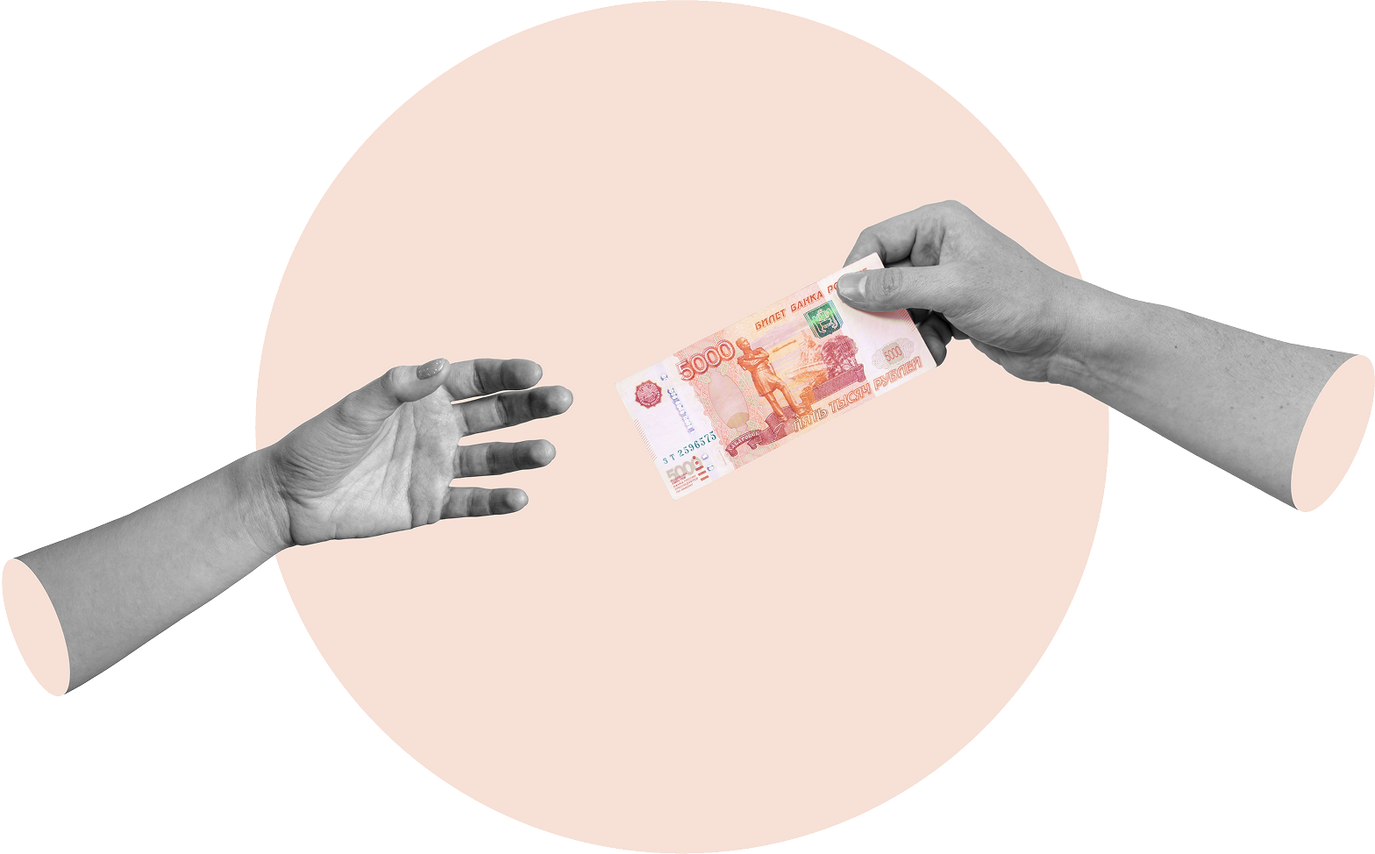
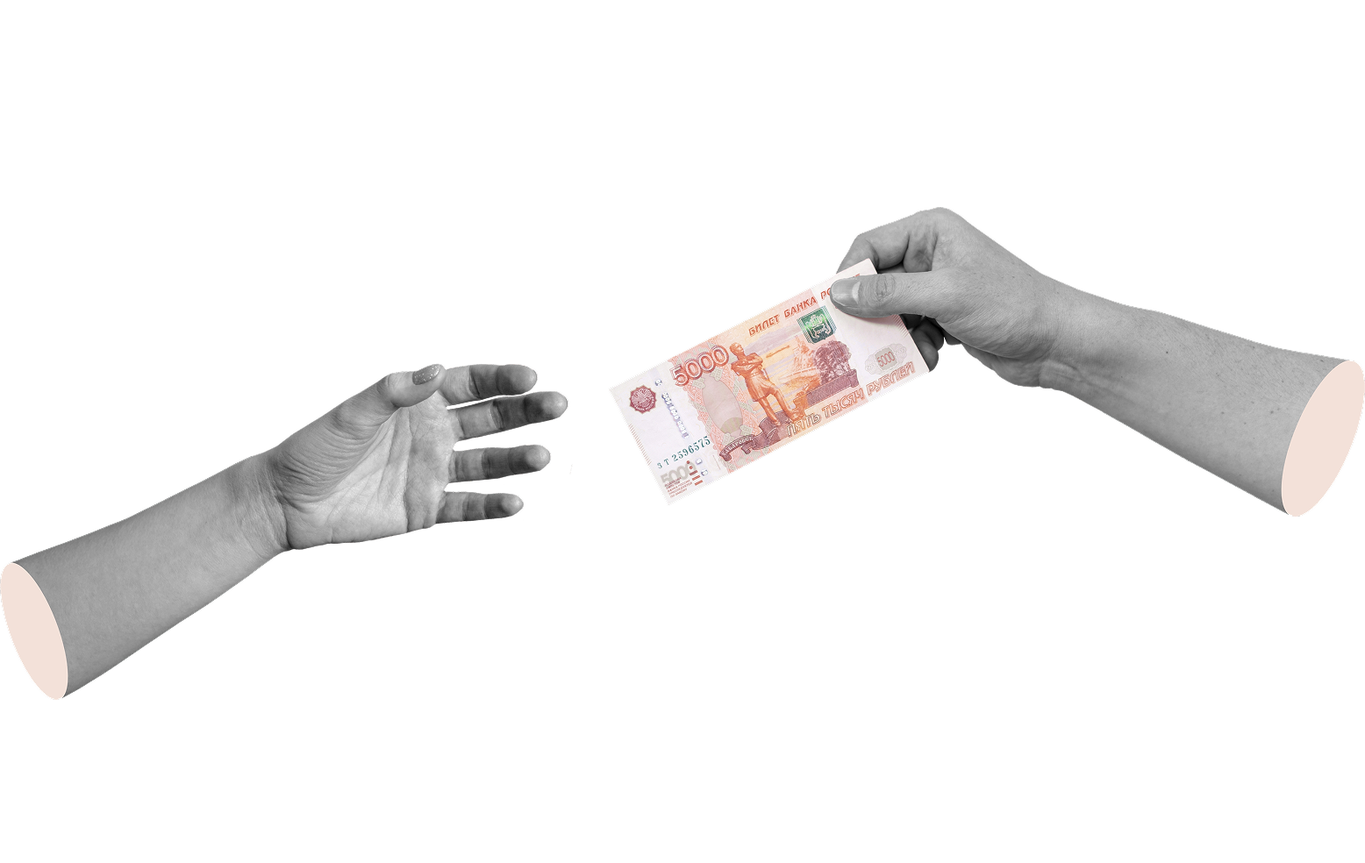
init

diff --git a/css/main.min.css b/css/main.min.css
@@ -1,1 +1,1 @@
-@font-face{font-family:Montserrat;font-style:normal;font-weight:400;src:local("Montserrat"),local("Montserrat"),url(../fonts/montserrat/Montserrat-Regular.woff2) format("woff2"),url(../fonts/montserrat/Montserrat-Regular.woff) format("woff"),url(../fonts/montserrat/Montserrat-Regular.ttf) format("truetype")}@font-face{font-family:Montserrat;font-style:normal;font-weight:500;src:local("Montserrat"),local("Montserrat"),url(../fonts/montserrat/Montserrat-Medium.woff2) format("woff2"),url(../fonts/montserrat/Montserrat-Medium.woff) format("woff"),url(../fonts/montserrat/Montserrat-Medium.ttf) format("truetype")}@font-face{font-family:Montserrat;font-style:normal;font-weight:600;src:local("Montserrat"),local("Montserrat"),url(../fonts/montserrat/Montserrat-SemiBold.woff2) format("woff2"),url(../fonts/montserrat/Montserrat-SemiBold.woff) format("woff"),url(../fonts/montserrat/Montserrat-SemiBold.ttf) format("truetype")}@font-face{font-family:Montserrat;font-style:normal;font-weight:700;src:local("Montserrat"),local("Montserrat"),url(../fonts/montserrat/Montserrat-Bold.woff2) format("woff2"),url(../fonts/montserrat/Montserrat-Bold.woff) format("woff"),url(../fonts/montserrat/Montserrat-Bold.ttf) format("truetype")}@font-face{font-family:Unbounded;font-style:normal;font-weight:700;src:local("Unbounded"),local("Unbounded"),url(../fonts/unbounded/Unbounded-Bold.woff2) format("woff2"),url(../fonts/unbounded/Unbounded-Bold.woff) format("woff"),url(../fonts/unbounded/Unbounded-Bold.ttf) format("truetype")}@font-face{font-family:Druk Wide Cry;font-style:normal;font-weight:700;src:local("Druk Wide Cry"),local("Druk Wide Cry"),url(../fonts/druk-wide-cyr/drukwidecyr-bold.woff2) format("woff2"),url(../fonts/druk-wide-cyr/drukwidecyr-bold.woff) format("woff"),url(../fonts/druk-wide-cyr/drukwidecyr-bold.ttf) format("truetype")}:root{--max-width-wrapper:1920px;--max-width-container:1200px;--container-pi:10px;--font-family-primary:"Montserrat",sans-serif;--font-family-secondary:"Unbounded",sans-serif;--font-family-third:"Druk Wide Cry",sans-serif;--main-bg:#f2f2f2;--base-white:#fff;--base-grey:#e8e8e8;--base-darkgrey:#e9e9e9;--accent-clr:#f94e04;--text-white:#fff;--text-black:#222;--text-bluedark:#181f53;--text-darkgray:#a4a4a4;--text-main:#f22a52}@media (prefers-reduced-motion:no-preference){:root{scroll-behavior:smooth}}*{border:0;margin:0;min-width:0;padding:0}*,:after,:before{box-sizing:border-box}:active,:focus,a:active,a:focus{outline:none}a,a:visited{text-decoration:none}p a,p a:visited{text-decoration:underline}@media (any-hover:hover){a:hover{text-decoration:none}}p{text-wrap:pretty}aside,footer,header,nav{display:block}body,html{font-size:100%;height:100%;width:100%;-ms-text-size-adjust:100%;-moz-text-size-adjust:100%;-webkit-text-size-adjust:100%}button,input,textarea{font-family:inherit}input::-ms-clear{display:none}button{cursor:pointer}button::-moz-focus-inner{border:0;padding:0}ul li{list-style:none}img{height:auto;max-width:100%;object-fit:cover;vertical-align:top}h1,h2,h3,h4,h5,h6{font-size:inherit;font-weight:inherit;text-wrap:balance}body{background-color:var(--main-bg);color:var(--text-black);font-family:var(--font-family-primary);font-size:1rem;font-weight:400}.wrapper,body.no-scroll{overflow:hidden}.wrapper{--_max-width:var(--max-width-wrapper,1920px);display:flex;flex-direction:column;margin:0 auto;max-width:var(--_max-width);min-height:100%;position:relative;width:100%}@media (width > 768px){.wrapper:after{background-image:url(../images/decor_01.svg),url(../images/decor_02.svg),url(../images/decor_03.svg);background-position:0,72%,100%;background-repeat:no-repeat,no-repeat,no-repeat;background-size:14.896%,31.354%,14.271%;content:"";inset:0;position:absolute;z-index:-2}}.content{flex:1 1 auto}.container{--_max-width-container:var(--max-width-container,1270px);--_padding-inline:var(--container-pi,15px);margin:0 auto;max-width:calc(var(--_max-width-container) + var(--_padding-inline)*2);padding:0 var(--_padding-inline);width:100%}.preload{background:var(--main-bg);display:grid;inset:0;opacity:0;place-items:center;pointer-events:none;position:fixed;transition-duration:.2s;transition-property:opacity,visibility,transform;visibility:hidden;z-index:99}.preload.is-visible{opacity:1;pointer-events:auto;visibility:visible}.preload.is-disabled-animation .preload__logo{animation:none}@keyframes preload-transform{0%{transform:rotateX(0)}50%{transform:rotateX(180deg)}to{transform:rotateX(0)}}.preload__logo{animation:preload-transform 2s ease-in-out infinite;display:block;width:6.25rem}.header__wrapper{display:flex;justify-content:center;padding-block:.625rem .938rem}@media (width > 576px){.header__wrapper{padding-block:1.563rem 1.875rem}}@media (width > 768px){.header__wrapper{justify-content:flex-start;padding-block:2.188rem 4.375rem}}.header__logo{display:block;max-width:5.938rem}.header__logo img{width:100%}@media (width > 576px){.header__logo{max-width:7.5rem}}@media (width > 768px){.header__logo{max-width:8.75rem}}.footer{padding-block:1.25rem 1.563rem}@media (width > 576px){.footer{padding-block:2.188rem 2.813rem}}.footer__wrapper{display:flex;flex-direction:column;gap:1.25rem}.footer__text{font-size:.75rem}.footer__text,.title{color:var(--text-black);display:block;text-align:center}.title{font-family:var(--font-family-third);font-size:clamp(1.25rem,.9375rem + 1.5625vw,2.8125rem);font-weight:700;line-height:1;position:relative;z-index:1}.title br{display:none}.title span{color:var(--accent-clr)}@media (width > 768px){.title{text-align:left}.title br{display:block}}.range{--range-target-handle-size:1.875rem;--range-target-height:1.75rem;--range-target-radius:0;--range-target-bg:#0000;--range-target-connect-bg:#0000}.range__wrapper{padding-bottom:1.375rem}.range__output-value{color:var(--text-black);font-family:var(--font-family-secondary);font-size:.938rem;font-weight:700;padding-bottom:.313rem}.range__content{background-color:initial;background-image:url(../images/range-bg_01.svg);background-position:50%;background-repeat:no-repeat;background-size:contain;padding:0;position:relative}.range__target{padding-inline:calc(var(--range-target-handle-size)/2);z-index:1}.range__target.noUi-horizontal{height:var(--range-target-height)}.range__target.noUi-target{background:#0000;border:none;box-shadow:none}.range__target .noUi-connects{background:var(--range-target-bg);border:0}.range__target .noUi-connect{background:var(--range-target-connect-bg)}.range__target.noUi-horizontal .noUi-handle{background-color:var(--base-white);background-image:url(../images/handle-arrows.svg);background-position:50%;background-repeat:no-repeat;background-size:1rem;border:none;border-radius:50%;box-shadow:none;display:grid;font-size:var(--range-target-handle-size);height:1em;outline:5px solid #f94e0480;place-content:center;right:0;top:calc(var(--range-target-height)/2);transform:translate(50%,-50%);transition:outline .1s linear;width:1em}.range__target.noUi-horizontal .noUi-handle:after,.range__target.noUi-horizontal .noUi-handle:before{display:none}.range__target.noUi-horizontal .noUi-handle.noUi-active{outline-color:#f94e04}.range__target .noUi-pips-horizontal{align-items:center;display:flex;height:auto;justify-content:space-between;left:0;padding:0 .313rem 0 0;position:absolute;top:50%;transform:translateY(-50%)}.range__target .noUi-value{color:var(--text-black);flex:0 0 auto;font-size:.625rem;font-weight:500;position:static;text-transform:lowercase;transform:none}.range__target .noUi-marker{display:none}.form{display:block;position:relative;z-index:1}.form__wrapper{-webkit-backdrop-filter:blur(9px);backdrop-filter:blur(9px);background:#fffc;border:1px solid var(--base-grey);border-radius:.375rem;box-shadow:0 64px 134px 0 #0000001a;display:grid;gap:.625rem;padding:1rem}@media (width > 576px){.form__wrapper{padding:1.625rem}}@media (width > 768px){.form__wrapper{background:#fff;padding:2.875rem}}.form__button,.form__checkbox,.form__input{position:relative}.form__data{align-items:center;color:var(--text-black);display:flex;font-family:var(--font-family-secondary);font-size:.563rem;font-weight:700;gap:.375rem}.form__data img{display:block;flex:0 0 1rem;height:1rem;width:1rem}.input{--input-height:3.25rem;--input-radius:calc(var(--input-height)/2);--input-pb:0.313rem;--input-pi:1.25rem;--input-fs:1rem;--input-label-fs:0.625rem;--input-label-indent-bottom:0.313rem;--input-icon-size:1.5rem;--input-border-width:0.125rem;--input-clr:var(--text-black);--input-lable-clr:var(--text-black);--input-border-clr:var(--base-grey);--input-icon-fill:var(--text-black);--input-bg:var(--base-white);--input-duration:200ms;--input-clr-hover:var(--accent-clr);--input-clr-focus:var(--accent-clr);--input-clr-error:var(--text-main)}.input.is-focused .input__wrapper{border-color:var(--input-clr-focus)}.input.is-disabled{pointer-events:none}.input.error{--input-lable-clr:var(--input-clr-error);--input-border-clr:var(--input-clr-error)}.input__wrapper{align-items:center;background:var(--input-bg);border:var(--input-border-width) solid var(--input-border-clr);border-radius:var(--input-radius);display:flex;gap:.625rem;min-height:var(--input-height);padding-block:var(--input-pb);padding-inline:var(--input-pi);transition:border var(--input-duration)}@media (any-hover:hover){.input__wrapper:hover{border-color:var(--input-clr-hover)}}.input__container{flex:1 1 auto}.input__label{color:var(--input-lable-clr);display:block;font-family:var(--font-family-secondary);font-size:var(--input-label-fs);font-weight:400;padding-bottom:var(--input-label-indent-bottom)}.input__target{background:none;border:none;color:var(--input-clr);display:block;font-size:var(--input-fs);font-weight:500;outline:none;overflow:hidden;text-overflow:ellipsis;white-space:nowrap;width:100%}.input__target::placeholder{color:var(--text-darkgray)}.input__icon{aspect-ratio:1;display:block;flex:0 0 auto;width:var(--input-icon-size);fill:var(--input-icon-fill);transition:fill var(--input-duration)}.checkbox{--checkbox-icon-size:0.875rem;--checkbox-radius:0.188rem;--checkbox-border-width:0.125rem;--checkbox-font-size:0.625rem;--checkbox-clr:var(--text-black);--checkbox-icon-fill:#0000;--checkbox-icon-fill-checked:var(--accent-clr);--checkbox-icon-bg:#0000;--checkbox-icon-border-clr:var(--accent-clr);--checkbox-clr-error:var(--text-main);--checkbox-duration:200ms}.checkbox.error .checkbox__icon{border-color:var(--checkbox-clr-error)}.checkbox.error .checkbox__text{color:var(--checkbox-clr-error)}.checkbox__label{align-items:center;cursor:pointer;display:flex;gap:.625rem}.checkbox__input{font-size:0;height:0;left:-100%;opacity:0;position:fixed;top:-100%;visibility:hidden;width:0;z-index:-999}.checkbox__input:checked+.checkbox__icon svg{fill:var(--checkbox-icon-fill-checked)}.checkbox__icon{align-items:center;background:var(--checkbox-icon-bg);border:var(--checkbox-border-width) solid var(--checkbox-icon-border-clr);border-radius:var(--checkbox-radius);display:flex;flex:0 0 1em;font-size:var(--checkbox-icon-size);height:1em;justify-content:center;width:1em}.checkbox__icon svg{display:block;flex:0 0 0.571em;height:.571em;width:.571em;fill:var(--checkbox-icon-fill);transition:fill .2s}.checkbox__text{color:var(--text-black);display:block;font-size:var(--checkbox-font-size);line-height:1.4}.button{--button-height:3.75rem;--button-padding-block:0.625rem;--button-padding-inline:1.25rem;--button-radius:calc(var(--button-height)/2);--button-font-size:0.875rem;--button-clr:var(--text-white);--button-clr-hover:var(--text-black);--button-clr-focus:var(--text-black);--button-border-clr:var(--accent-clr);--button-border-clr-hover:var(--accent-clr);--button-border-clr-focus:var(--accent-clr);--button-bg:var(--accent-clr);--button-bg-hover:#0000;--button-bg-focus:#0000;--button-shadow:none;--button-shadow-hover:none;--button-shadow-focus:none;align-items:center;background:var(--button-bg);border:2px solid var(--button-border-clr);border-radius:var(--button-radius);box-shadow:var(--button-shadow);color:var(--text-white);display:flex;font-family:var(--font-family-secondary);font-size:var(--button-font-size);font-weight:700;justify-content:center;line-height:1.2;min-height:var(--button-height);padding-block:var(--button-padding-block);padding-inline:var(--button-padding-inline);transition:background .2s;width:100%}.button:focus-visible{background:var(--button-bg-focus);box-shadow:var(--button-shadow-focus);color:var(--button-clr-focus)}@media (any-hover:hover){.button:hover{background:var(--button-bg-hover);box-shadow:var(--button-shadow-hover);color:var(--button-clr-hover)}}@media (any-hover:none){.button:active{background:var(--button-bg-hover);box-shadow:var(--button-shadow-hover);color:var(--button-clr-hover)}}.home{display:grid;flex:1 1 auto;grid-template-columns:1fr;place-content:center}.home__wrapper{align-items:start;display:grid;gap:.938rem;justify-items:center;padding-top:.938rem;position:relative}@media (width > 768px){.home__wrapper{grid-template-columns:auto 22.5rem;justify-content:space-between;padding-top:0}}.home__decor{display:block;left:50%;position:absolute;top:50%;transform:translate3d(-50%,-120%,0) rotate(9deg);width:20rem;z-index:-1}.home__decor img{width:100%}@media (width > 768px){.home__decor{transform:translate3d(-50%,-50%,0);width:65.25%}}.home__head{display:grid;gap:1.125rem;padding-top:3.438rem}@media (width <= 768px){.home__head{justify-items:center;margin-bottom:3.438rem;padding-top:0}}.home__subtitle{align-items:center;color:var(--text-black);display:flex;font-size:.875rem;font-weight:500;gap:.625rem;text-align:center}@media (width > 576px){.home__subtitle{font-size:1rem}}@media (width > 768px){.home__subtitle{font-size:1.25rem;gap:1rem;text-align:left}}.home__list{display:none}@media (width > 768px){.home__list{display:block}.home__list li{color:var(--text-black);display:flex;font-size:1rem;font-weight:600;gap:.444em}.home__list li:not(:last-child){margin-bottom:.667em}.home__list li:before{background-image:url(../images/check.svg);background-position:50%;background-repeat:no-repeat;background-size:contain;content:"";display:block;flex:0 0 1em;height:1em;margin-top:.111em;width:1em}}.home__form{max-width:18.75rem;width:100%}@media (width > 576px){.home__form{max-width:20rem}}@media (width > 768px){.home__form{max-width:22.5rem}}
+@font-face{font-family:Montserrat;font-style:normal;font-weight:400;src:local("Montserrat"),local("Montserrat"),url(../fonts/montserrat/Montserrat-Regular.woff2) format("woff2"),url(../fonts/montserrat/Montserrat-Regular.woff) format("woff"),url(../fonts/montserrat/Montserrat-Regular.ttf) format("truetype")}@font-face{font-family:Montserrat;font-style:normal;font-weight:500;src:local("Montserrat"),local("Montserrat"),url(../fonts/montserrat/Montserrat-Medium.woff2) format("woff2"),url(../fonts/montserrat/Montserrat-Medium.woff) format("woff"),url(../fonts/montserrat/Montserrat-Medium.ttf) format("truetype")}@font-face{font-family:Montserrat;font-style:normal;font-weight:600;src:local("Montserrat"),local("Montserrat"),url(../fonts/montserrat/Montserrat-SemiBold.woff2) format("woff2"),url(../fonts/montserrat/Montserrat-SemiBold.woff) format("woff"),url(../fonts/montserrat/Montserrat-SemiBold.ttf) format("truetype")}@font-face{font-family:Montserrat;font-style:normal;font-weight:700;src:local("Montserrat"),local("Montserrat"),url(../fonts/montserrat/Montserrat-Bold.woff2) format("woff2"),url(../fonts/montserrat/Montserrat-Bold.woff) format("woff"),url(../fonts/montserrat/Montserrat-Bold.ttf) format("truetype")}@font-face{font-family:Unbounded;font-style:normal;font-weight:700;src:local("Unbounded"),local("Unbounded"),url(../fonts/unbounded/Unbounded-Bold.woff2) format("woff2"),url(../fonts/unbounded/Unbounded-Bold.woff) format("woff"),url(../fonts/unbounded/Unbounded-Bold.ttf) format("truetype")}@font-face{font-family:Druk Wide Cry;font-style:normal;font-weight:700;src:local("Druk Wide Cry"),local("Druk Wide Cry"),url(../fonts/druk-wide-cyr/drukwidecyr-bold.woff2) format("woff2"),url(../fonts/druk-wide-cyr/drukwidecyr-bold.woff) format("woff"),url(../fonts/druk-wide-cyr/drukwidecyr-bold.ttf) format("truetype")}:root{--max-width-wrapper:1920px;--max-width-container:1200px;--container-pi:10px;--font-family-primary:"Montserrat",sans-serif;--font-family-secondary:"Unbounded",sans-serif;--font-family-third:"Druk Wide Cry",sans-serif;--main-bg:#f2f2f2;--base-white:#fff;--base-grey:#e8e8e8;--base-darkgrey:#e9e9e9;--accent-clr:#f94e04;--text-white:#fff;--text-black:#222;--text-bluedark:#181f53;--text-darkgray:#a4a4a4;--text-main:#f22a52}@media (prefers-reduced-motion:no-preference){:root{scroll-behavior:smooth}}*{border:0;margin:0;min-width:0;padding:0}*,:after,:before{box-sizing:border-box}:active,:focus,a:active,a:focus{outline:none}a,a:visited{text-decoration:none}p a,p a:visited{text-decoration:underline}@media (any-hover:hover){a:hover{text-decoration:none}}p{text-wrap:pretty}aside,footer,header,nav{display:block}body,html{font-size:100%;height:100%;width:100%;-ms-text-size-adjust:100%;-moz-text-size-adjust:100%;-webkit-text-size-adjust:100%}button,input,textarea{font-family:inherit}input::-ms-clear{display:none}button{cursor:pointer}button::-moz-focus-inner{border:0;padding:0}ul li{list-style:none}img{height:auto;max-width:100%;object-fit:cover;vertical-align:top}h1,h2,h3,h4,h5,h6{font-size:inherit;font-weight:inherit;text-wrap:balance}body{background-color:var(--main-bg);color:var(--text-black);font-family:var(--font-family-primary);font-size:1rem;font-weight:400}.wrapper,body.no-scroll{overflow:hidden}.wrapper{--_max-width:var(--max-width-wrapper,1920px);display:flex;flex-direction:column;margin:0 auto;max-width:var(--_max-width);min-height:100%;position:relative;width:100%}@media (width > 768px){.wrapper:after{background-image:url(../images/decor_01.svg),url(../images/decor_03.svg);background-position:0,100%;background-repeat:no-repeat,no-repeat;background-size:14.896%,14.271%;content:"";inset:0;position:absolute;z-index:-1}}.content{flex:1 1 auto}.container{--_max-width-container:var(--max-width-container,1270px);--_padding-inline:var(--container-pi,15px);margin:0 auto;max-width:calc(var(--_max-width-container) + var(--_padding-inline)*2);padding:0 var(--_padding-inline);width:100%}.preload{background:var(--main-bg);display:grid;inset:0;opacity:0;place-items:center;pointer-events:none;position:fixed;transition-duration:.2s;transition-property:opacity,visibility,transform;visibility:hidden;z-index:99}.preload.is-visible{opacity:1;pointer-events:auto;visibility:visible}.preload.is-disabled-animation .preload__logo{animation:none}@keyframes preload-transform{0%{transform:rotateX(0)}50%{transform:rotateX(180deg)}to{transform:rotateX(0)}}.preload__logo{animation:preload-transform 2s ease-in-out infinite;display:block;width:6.25rem}.header__wrapper{display:flex;justify-content:center;padding-block:.625rem .938rem}@media (width > 576px){.header__wrapper{padding-block:1.563rem 1.875rem}}@media (width > 768px){.header__wrapper{justify-content:flex-start;padding-block:2.188rem 4.375rem}}.header__logo{display:block;max-width:5.938rem}.header__logo img{width:100%}@media (width > 576px){.header__logo{max-width:7.5rem}}@media (width > 768px){.header__logo{max-width:8.75rem}}.footer{padding-block:1.25rem 1.563rem}@media (width > 576px){.footer{padding-block:2.188rem 2.813rem}}.footer__wrapper{display:flex;flex-direction:column;gap:1.25rem}.footer__text{font-size:.75rem}.footer__text,.title{color:var(--text-black);display:block;text-align:center}.title{font-family:var(--font-family-third);font-size:clamp(1.25rem,.9375rem + 1.5625vw,2.8125rem);font-weight:700;line-height:1;position:relative;z-index:1}.title br{display:none}.title span{color:var(--accent-clr)}@media (width > 768px){.title{text-align:left}.title br{display:block}}.range{--range-target-handle-size:1.875rem;--range-target-height:1.75rem;--range-target-radius:0;--range-target-bg:#0000;--range-target-connect-bg:#0000}.range__wrapper{padding-bottom:1.375rem}.range__output-value{color:var(--text-black);font-family:var(--font-family-secondary);font-size:.938rem;font-weight:700;padding-bottom:.313rem}.range__content{background-color:initial;background-image:url(../images/range-bg_01.svg);background-position:50%;background-repeat:no-repeat;background-size:contain;padding:0;position:relative}.range__target{padding-inline:calc(var(--range-target-handle-size)/2);z-index:1}.range__target.noUi-horizontal{height:var(--range-target-height)}.range__target.noUi-target{background:#0000;border:none;box-shadow:none}.range__target .noUi-connects{background:var(--range-target-bg);border:0}.range__target .noUi-connect{background:var(--range-target-connect-bg)}.range__target.noUi-horizontal .noUi-handle{background-color:var(--base-white);background-image:url(../images/handle-arrows.svg);background-position:50%;background-repeat:no-repeat;background-size:1rem;border:none;border-radius:50%;box-shadow:none;display:grid;font-size:var(--range-target-handle-size);height:1em;outline:5px solid #f94e0480;place-content:center;right:0;top:calc(var(--range-target-height)/2);transform:translate(50%,-50%);transition:outline .1s linear;width:1em}.range__target.noUi-horizontal .noUi-handle:after,.range__target.noUi-horizontal .noUi-handle:before{display:none}.range__target.noUi-horizontal .noUi-handle.noUi-active{outline-color:#f94e04}.range__target .noUi-pips-horizontal{align-items:center;display:flex;height:auto;justify-content:space-between;left:0;padding:0 .313rem 0 0;position:absolute;top:50%;transform:translateY(-50%)}.range__target .noUi-value{color:var(--text-black);flex:0 0 auto;font-size:.625rem;font-weight:500;position:static;text-transform:lowercase;transform:none}.range__target .noUi-marker{display:none}.form{display:block;position:relative;z-index:1}.form__wrapper{-webkit-backdrop-filter:blur(9px);backdrop-filter:blur(9px);background:#fffc;border:1px solid var(--base-grey);border-radius:.375rem;box-shadow:0 64px 134px 0 #0000001a;display:grid;gap:.625rem;padding:1rem}@media (width > 576px){.form__wrapper{padding:1.625rem}}@media (width > 768px){.form__wrapper{background:#fff;padding:2.875rem}}.form__button,.form__checkbox,.form__input{position:relative}.form__data{align-items:center;color:var(--text-black);display:flex;font-family:var(--font-family-secondary);font-size:.563rem;font-weight:700;gap:.375rem}.form__data img{display:block;flex:0 0 1rem;height:1rem;width:1rem}.input{--input-height:3.25rem;--input-radius:calc(var(--input-height)/2);--input-pb:0.313rem;--input-pi:1.25rem;--input-fs:1rem;--input-label-fs:0.625rem;--input-label-indent-bottom:0.313rem;--input-icon-size:1.5rem;--input-border-width:0.125rem;--input-clr:var(--text-black);--input-lable-clr:var(--text-black);--input-border-clr:var(--base-grey);--input-icon-fill:var(--text-black);--input-bg:var(--base-white);--input-duration:200ms;--input-clr-hover:var(--accent-clr);--input-clr-focus:var(--accent-clr);--input-clr-error:var(--text-main)}.input.is-focused .input__wrapper{border-color:var(--input-clr-focus)}.input.is-disabled{pointer-events:none}.input.error{--input-lable-clr:var(--input-clr-error);--input-border-clr:var(--input-clr-error)}.input__wrapper{align-items:center;background:var(--input-bg);border:var(--input-border-width) solid var(--input-border-clr);border-radius:var(--input-radius);display:flex;gap:.625rem;min-height:var(--input-height);padding-block:var(--input-pb);padding-inline:var(--input-pi);transition:border var(--input-duration)}@media (any-hover:hover){.input__wrapper:hover{border-color:var(--input-clr-hover)}}.input__container{flex:1 1 auto}.input__label{color:var(--input-lable-clr);display:block;font-family:var(--font-family-secondary);font-size:var(--input-label-fs);font-weight:400;padding-bottom:var(--input-label-indent-bottom)}.input__target{background:none;border:none;color:var(--input-clr);display:block;font-size:var(--input-fs);font-weight:500;outline:none;overflow:hidden;text-overflow:ellipsis;white-space:nowrap;width:100%}.input__target::placeholder{color:var(--text-darkgray)}.input__icon{aspect-ratio:1;display:block;flex:0 0 auto;width:var(--input-icon-size);fill:var(--input-icon-fill);transition:fill var(--input-duration)}.checkbox{--checkbox-icon-size:0.875rem;--checkbox-radius:0.188rem;--checkbox-border-width:0.125rem;--checkbox-font-size:0.625rem;--checkbox-clr:var(--text-black);--checkbox-icon-fill:#0000;--checkbox-icon-fill-checked:var(--accent-clr);--checkbox-icon-bg:#0000;--checkbox-icon-border-clr:var(--accent-clr);--checkbox-clr-error:var(--text-main);--checkbox-duration:200ms}.checkbox.error .checkbox__icon{border-color:var(--checkbox-clr-error)}.checkbox.error .checkbox__text{color:var(--checkbox-clr-error)}.checkbox__label{align-items:center;cursor:pointer;display:flex;gap:.625rem}.checkbox__input{font-size:0;height:0;left:-100%;opacity:0;position:fixed;top:-100%;visibility:hidden;width:0;z-index:-999}.checkbox__input:checked+.checkbox__icon svg{fill:var(--checkbox-icon-fill-checked)}.checkbox__icon{align-items:center;background:var(--checkbox-icon-bg);border:var(--checkbox-border-width) solid var(--checkbox-icon-border-clr);border-radius:var(--checkbox-radius);display:flex;flex:0 0 1em;font-size:var(--checkbox-icon-size);height:1em;justify-content:center;width:1em}.checkbox__icon svg{display:block;flex:0 0 0.571em;height:.571em;width:.571em;fill:var(--checkbox-icon-fill);transition:fill .2s}.checkbox__text{color:var(--text-black);display:block;font-size:var(--checkbox-font-size);line-height:1.4}.button{--button-height:3.75rem;--button-padding-block:0.625rem;--button-padding-inline:1.25rem;--button-radius:calc(var(--button-height)/2);--button-font-size:0.875rem;--button-clr:var(--text-white);--button-clr-hover:var(--text-black);--button-clr-focus:var(--text-black);--button-border-clr:var(--accent-clr);--button-border-clr-hover:var(--accent-clr);--button-border-clr-focus:var(--accent-clr);--button-bg:var(--accent-clr);--button-bg-hover:#0000;--button-bg-focus:#0000;--button-shadow:none;--button-shadow-hover:none;--button-shadow-focus:none;align-items:center;background:var(--button-bg);border:2px solid var(--button-border-clr);border-radius:var(--button-radius);box-shadow:var(--button-shadow);color:var(--text-white);display:flex;font-family:var(--font-family-secondary);font-size:var(--button-font-size);font-weight:700;justify-content:center;line-height:1.2;min-height:var(--button-height);padding-block:var(--button-padding-block);padding-inline:var(--button-padding-inline);transition:background .2s;width:100%}.button:focus-visible{background:var(--button-bg-focus);box-shadow:var(--button-shadow-focus);color:var(--button-clr-focus)}@media (any-hover:hover){.button:hover{background:var(--button-bg-hover);box-shadow:var(--button-shadow-hover);color:var(--button-clr-hover)}}@media (any-hover:none){.button:active{background:var(--button-bg-hover);box-shadow:var(--button-shadow-hover);color:var(--button-clr-hover)}}.home{display:grid;flex:1 1 auto;grid-template-columns:1fr;place-content:center}.home__wrapper{align-items:start;display:grid;gap:.938rem;justify-items:center;padding-top:.938rem;position:relative}@media (width > 768px){.home__wrapper{grid-template-columns:auto 22.5rem;justify-content:space-between;padding-top:0}}.home__decor{transform:translate3d(-50%,-120%,0) rotate(9deg);width:20rem;z-index:-1}.home__decor,.home__decor:after{display:block;left:50%;position:absolute;top:50%}.home__decor:after{aspect-ratio:1;background:#f3e1d9;border-radius:50%;content:"";transform:translate(-50%,-50%);width:62%;z-index:-2}.home__decor img{width:100%}@media (width > 768px){.home__decor{transform:translate3d(-50%,-50%,0);width:65.25%}.home__decor:before{background-image:url(../images/decor_02.svg);background-position:50%;background-repeat:no-repeat;background-size:cover;content:"";display:block;padding-bottom:116.347%;position:absolute;right:0;top:0;transform:translate(32%,-28%);width:76.884%;z-index:-1}}.home__head{display:grid;gap:1.125rem;padding-top:3.438rem}@media (width <= 768px){.home__head{justify-items:center;margin-bottom:3.438rem;padding-top:0}}.home__subtitle{align-items:center;color:var(--text-black);display:flex;font-size:.875rem;font-weight:500;gap:.625rem;text-align:center}@media (width > 576px){.home__subtitle{font-size:1rem}}@media (width > 768px){.home__subtitle{font-size:1.25rem;gap:1rem;text-align:left}}.home__list{display:none}@media (width > 768px){.home__list{display:block}.home__list li{color:var(--text-black);display:flex;font-size:1rem;font-weight:600;gap:.444em}.home__list li:not(:last-child){margin-bottom:.667em}.home__list li:before{background-image:url(../images/check.svg);background-position:50%;background-repeat:no-repeat;background-size:contain;content:"";display:block;flex:0 0 1em;height:1em;margin-top:.111em;width:1em}}.home__form{max-width:18.75rem;width:100%}@media (width > 576px){.home__form{max-width:20rem}}@media (width > 768px){.home__form{max-width:22.5rem}}

diff --git a/index.html b/index.html
@@ -1,1 +1,1 @@
-<!doctype html><html lang="ru"><head><meta charset="UTF-8"><meta http-equiv="x-ua-compatible" content="ie=edge"><meta name="viewport" content="width=device-width,initial-scale=1,shrink-to-fit=no"><meta name="robots" content="index, follow"><meta name="google" content="notranslate"><meta name="format-detection" content="telephone=no"><meta name="description" content=""><title>Monega</title><link rel="stylesheet" href="./css/main.min.css"></head><body><div class="wrapper"><div class="preload is-visible" data-preload-page><img class="preload__logo" src="./images/logo_02.svg" alt="prelogo"></div><header class="header"><div class="container"><div class="header__wrapper"><a class="header__logo" href="#"><img src="./images/logo_01.svg" alt="logo"></a></div></div></header><main class="home"><div class="container"><div class="home__wrapper"><picture class="home__decor"><source srcset="./images/img_01.webp" type="image/webp"><img src="./images/img_01.png" alt="decor"></picture><div class="home__head"><h1 class="home__title title"><span>Займы</span><br>на карту <span>0%</span></h1><span class="home__subtitle"><img src="./images/figure_01.svg" alt="figure"> Моментальное одобрение</span><ul class="home__list"><li>Быстрое оформление</li><li>Минимум документов</li><li>Без звонков</li></ul></div><form class="home__form form"><div class="form__wrapper"><div class="range"><div class="range__wrapper"><div class="range__output-value"><span data-range-slider-sum-value></span> руб.</div><div class="range__content"><div class="range__target" data-range-slider="sum"></div></div></div></div><div class="range"><div class="range__wrapper"><div class="range__output-value"><span data-range-slider-value-date></span></div><div class="range__content"><div class="range__target" data-range-slider="day"></div></div></div></div><div class="form__data"><img src="./images/wallet.svg" alt="icon"><p>Вы вернёте <span data-range-slider-sum></span> через <span data-range-slider-value-date></span></p></div><div class="form__input input" data-input-state><label class="input__wrapper"><div class="input__container"><input class="input__target" type="tel" placeholder="Телефон" data-input-state-target></div></label></div><div class="form__checkbox checkbox"><div class="checkbox__wrapper"><label class="checkbox__label"><input class="checkbox__input" type="checkbox"><div class="checkbox__icon"><svg><use href="./images/sprite.svg#check" xlink:href="./images/sprite.svg#check"></use></svg></div><p class="checkbox__text">Согласен на обработку персональных данных</p></label></div></div><button class="form__button button" type="submit">Получить бесплатно</button></div></form></div></div></main><footer class="footer"><div class="container"><div class="footer__wrapper"><p class="footer__text">Свидетельство НБУ о регистрации финансового учреждения ФК №В0000507 от 28.01.2022 | Идентификационный код юридического лица: 44620708 | Все документы доступны по ссылке</p><p class="footer__text">© 2021 - 2025 ТОВ "ФК "НЕЗАЛЕЖНІ ФІНАНСИ"</p></div></div></footer></div><script src="./js/index.js"></script></body></html>
+<!doctype html><html lang="ru"><head><meta charset="UTF-8"><meta http-equiv="x-ua-compatible" content="ie=edge"><meta name="viewport" content="width=device-width,initial-scale=1,shrink-to-fit=no"><meta name="robots" content="index, follow"><meta name="google" content="notranslate"><meta name="format-detection" content="telephone=no"><meta name="description" content=""><title>Monega</title><link rel="stylesheet" href="./css/main.min.css"></head><body><div class="wrapper"><header class="header"><div class="container"><div class="header__wrapper"><a class="header__logo" href="#"><img src="./images/logo_01.svg" alt="logo"></a></div></div></header><main class="home"><div class="container"><div class="home__wrapper"><picture class="home__decor"><source srcset="./images/img_01.webp" type="image/webp"><img src="./images/img_01.png" alt="decor"></picture><div class="home__head"><h1 class="home__title title"><span>Займы</span><br>на карту <span>0%</span></h1><span class="home__subtitle"><img src="./images/figure_01.svg" alt="figure"> Моментальное одобрение</span><ul class="home__list"><li>Быстрое оформление</li><li>Минимум документов</li><li>Без звонков</li></ul></div><form class="home__form form"><div class="form__wrapper"><div class="range"><div class="range__wrapper"><div class="range__output-value"><span data-range-slider-sum-value></span> руб.</div><div class="range__content"><div class="range__target" data-range-slider="sum"></div></div></div></div><div class="range"><div class="range__wrapper"><div class="range__output-value"><span data-range-slider-value-date></span></div><div class="range__content"><div class="range__target" data-range-slider="day"></div></div></div></div><div class="form__data"><img src="./images/wallet.svg" alt="icon"><p>Вы вернёте <span data-range-slider-sum></span> через <span data-range-slider-value-date></span></p></div><div class="form__input input" data-input-state><label class="input__wrapper"><div class="input__container"><input class="input__target" type="tel" placeholder="Телефон" data-input-state-target></div></label></div><div class="form__checkbox checkbox"><div class="checkbox__wrapper"><label class="checkbox__label"><input class="checkbox__input" type="checkbox"><div class="checkbox__icon"><svg><use href="./images/sprite.svg#check" xlink:href="./images/sprite.svg#check"></use></svg></div><p class="checkbox__text">Согласен на обработку персональных данных</p></label></div></div><button class="form__button button" type="submit">Получить бесплатно</button></div></form></div></div></main><footer class="footer"><div class="container"><div class="footer__wrapper"><p class="footer__text">Свидетельство НБУ о регистрации финансового учреждения ФК №В0000507 от 28.01.2022 | Идентификационный код юридического лица: 44620708 | Все документы доступны по ссылке</p><p class="footer__text">© 2021 - 2025 ТОВ "ФК "НЕЗАЛЕЖНІ ФІНАНСИ"</p></div></div></footer></div><script src="./js/index.js"></script></body></html>
